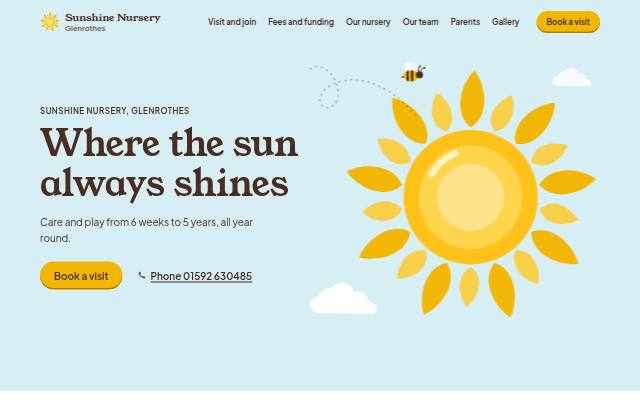
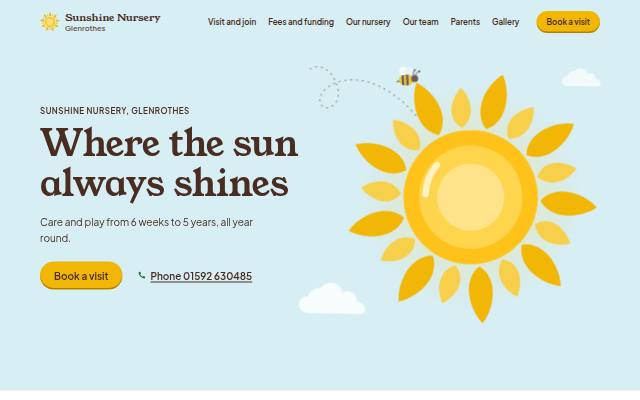
Sunny Side: more motion, tidier menus and footer, photos in What's here
- Hero sun turns and glows, clouds drift in, the bee flies in; the sun on
  the hours arc climbs to the current time. Explore's sun turns and glows
  each time it scrolls into view. All motion stops within 5 seconds.
- Phone menu sheet takes focus itself, so no ring round the logo on open.
- Footer runs to the bottom edge on phones (the call bar tucks away there).
- Desktop menu: one line, gold underline for the current page, from 70em.
- What's here: the nursery's own photos where they show that thing,
  otherwise the drawing in the same frame (owner's decision, recorded in
  nursery-websites.md §5.2 rule 6).

Changed region(s): [[0.5, 0.15, 0.9375, 0.81], [0.8438, 0.18, 0.9375, 0.21], [0.4688, 0.72, 0.5, 0.78]]

diff --git a/pipeline/templates/nursery/sunny-side/styles.css b/pipeline/templates/nursery/sunny-side/styles.css
@@ -167,14 +167,20 @@ a:hover { color: var(--leaf-strong); text-decoration-thickness: .14em; }
 .menu-toggle:hover { background: var(--paper); color: var(--soil); }
 .menu-toggle__dots { display: inline-grid; grid-template-columns: repeat(2, 5px); gap: 3px; }
 .menu-toggle__dots i { width: 5px; height: 5px; border-radius: 50%; background: var(--gold-strong); }
-@media (min-width: 64em) {
+/* The full menu row needs about 1080px with the 64px gutters, so it starts at 70em; below that, Menu opens the sheet. */
+@media (min-width: 70em) {
   .site-header__bar { min-height: 5.5rem; }
   .menu-toggle { display: none; }
   .site-nav { display: flex; align-items: center; gap: 1.5rem; }
   .site-nav ul { display: flex; gap: .25rem; margin: 0; padding: 0; list-style: none; }
-  .site-nav a:not(.btn) { display: inline-flex; align-items: center; min-height: var(--tap); padding: .25rem .625rem; color: var(--soil); font-size: 1rem; font-weight: 600; text-decoration: none; border-radius: 999px; }
-  .site-nav a:not(.btn):hover { background: var(--paper); }
-  .site-nav a[aria-current="page"] { background: var(--paper); box-shadow: inset 0 -3px 0 var(--gold); }
+  /* Links stay on one line. Hover and the current page are a gold underline, as in the phone menu sheet. */
+  .site-nav a { white-space: nowrap; }
+  .site-nav a:not(.btn) {
+    display: inline-flex; align-items: center; min-height: var(--tap); padding: .25rem .625rem; color: var(--soil); font-size: 1rem; font-weight: 600;
+    text-decoration: underline 3px transparent; text-underline-offset: .45em; border-radius: .5rem; transition: text-decoration-color .15s;
+  }
+  .site-nav a:not(.btn):hover { color: var(--soil); text-decoration-color: var(--line-strong); }
+  .site-nav a[aria-current="page"], .site-nav a[aria-current="page"]:hover { text-decoration-color: var(--gold-strong); }
 }
 
 /* The phone and tablet menu: a full-height sheet (a modal <dialog>) */
@@ -182,6 +188,8 @@ a:hover { color: var(--leaf-strong); text-decoration-thickness: .14em; }
   width: 100%; max-width: 100%; height: 100%; max-height: 100%; margin: 0; padding: 0; border: 0;
   background: var(--sky); color: var(--soil);
 }
+.menu-sheet:focus { outline: none; }
+.brand:focus-visible { border-radius: .75rem; }
 .menu-sheet::backdrop { background: rgba(74, 44, 32, .35); }
 .menu-sheet__inner { display: flex; flex-direction: column; min-height: 100%; padding: 0 var(--gutter) calc(1.5rem + env(safe-area-inset-bottom)); }
 .menu-sheet__top { display: flex; align-items: center; justify-content: space-between; min-height: 4.5rem; }
@@ -198,10 +206,12 @@ a:hover { color: var(--leaf-strong); text-decoration-thickness: .14em; }
 .menu-sheet__dot { width: 1rem; height: 1rem; flex: none; border-radius: var(--corner) var(--corner) var(--corner) 2px; background: var(--deep-visit); }
 .menu-sheet__foot { margin-top: auto; display: grid; gap: 1rem; }
 
-/* The call bar: phones only. It never covers content: the page is padded by its height. */
+/* The call bar: phones only. It never covers content. The script tucks it away while the footer is in view
+   (body.callbar-tucks), so the footer runs to the bottom edge; without the script the footer is padded by the bar's height. */
 .callbar { display: none; }
 @media (max-width: 47.99em) {
-  body.has-callbar { padding-bottom: calc(var(--callbar-height) + env(safe-area-inset-bottom)); }
+  body.has-callbar .site-footer { padding-bottom: calc(2.5rem + env(safe-area-inset-bottom)); }
+  body.has-callbar:not(.callbar-tucks) .site-footer { padding-bottom: calc(2.5rem + var(--callbar-height) + env(safe-area-inset-bottom)); }
   .callbar {
     position: fixed; z-index: 30; left: 0; right: 0; bottom: 0; display: flex; align-items: center; gap: 1rem;
     min-height: var(--callbar-height); padding: .5rem var(--gutter) calc(.5rem + env(safe-area-inset-bottom));
@@ -240,7 +250,9 @@ a:hover { color: var(--leaf-strong); text-decoration-thickness: .14em; }
 .hero { position: relative; overflow: hidden; background: var(--sky); padding-block: 1rem var(--space-section); min-height: calc(min(100svh, 52.75rem) * .7 - 4.5rem); }
 .hero__inner { position: relative; display: grid; }
 .hero__art { position: relative; justify-self: end; width: min(72vw, 20rem); aspect-ratio: 1; margin: -.75rem -3rem 0 0; }
-.hero__art .emblem { width: 100%; height: 100%; }
+.hero__art .emblem { position: relative; width: 100%; height: 100%; }
+/* A soft glow behind the sun; it breathes twice on load (see section 13) */
+.hero__art::before { content: ""; position: absolute; inset: 4%; border-radius: 50%; background: radial-gradient(closest-side, rgb(255 227 138 / .75), rgb(255 213 77 / .3) 62%, transparent); opacity: .35; }
 .hero__cloud { position: absolute; width: 7.5rem; height: auto; opacity: .95; }
 .hero__cloud--a { left: -4rem; bottom: 1.5rem; width: 8.5rem; }
 .hero__cloud--b { right: 1rem; top: 0; width: 5rem; opacity: .8; }
@@ -490,9 +502,12 @@ a:hover { color: var(--leaf-strong); text-decoration-thickness: .14em; }
 @media (min-width: 64em) { .rooms { grid-template-columns: repeat(3, 1fr); } }
 
 /* "What's here": the nursery's real amenities, a drawing and up to 4 words each */
-.whats-here { display: grid; gap: 1rem 2rem; margin-top: 2rem; padding: 0; list-style: none; }
-.whats-here li { display: flex; align-items: center; gap: 1rem; font-weight: 600; }
-.whats-here svg { width: 3.5rem; height: 3.5rem; flex: none; }
+/* What's here: one card per thing, the nursery's own photo where it shows that thing, else its drawing in the same frame */
+.whats-here { display: grid; gap: var(--gap-cards); margin-top: 2rem; padding: 0; list-style: none; }
+.whats-here img, .whats-here__art { width: 100%; aspect-ratio: 4 / 3; object-fit: cover; border-radius: var(--radius-photo); background: var(--sky); }
+.whats-here__art { display: grid; place-items: center; background: var(--paper); box-shadow: inset 0 0 0 1px var(--line); }
+.whats-here__art svg { width: 45%; height: auto; }
+.whats-here figcaption { margin-top: .75rem; font-weight: 600; }
 @media (min-width: 37.5em) { .whats-here { grid-template-columns: 1fr 1fr; } }
 @media (min-width: 64em) { .whats-here { grid-template-columns: repeat(3, 1fr); } }
 
@@ -640,16 +655,30 @@ a:hover { color: var(--leaf-strong); text-decoration-thickness: .14em; }
 @media (prefers-reduced-motion: no-preference) {
   html { scroll-behavior: smooth; }
   .callbar { transition: transform .25s ease, visibility .25s; }
-  .hero__bee, .visit__bee { animation: bob 2.4s ease-in-out 3; }
-  .hero__art .emblem { animation: rise .9s cubic-bezier(.2, .8, .2, 1) both; }
+  .visit__bee { animation: bob 2.4s ease-in-out 3; }
+  /* The hero sun: rises, turns a little as it settles and glows twice. All of it is over within 5 seconds. */
+  .hero__art .emblem { animation: rise .9s cubic-bezier(.2, .8, .2, 1) both, turn 4.6s cubic-bezier(.3, .6, .2, 1) both; }
+  .hero__art::before { animation: glow 2.2s ease-in-out .5s 2 both; }
+  .hero__cloud--a { animation: drift-a 4.8s ease-in-out both; }
+  .hero__cloud--b { animation: drift-b 4.8s ease-in-out both; }
+  .hero__bee { animation: fly-in 1.1s cubic-bezier(.2, .8, .2, 1) .6s both, bob 2.4s ease-in-out 1.7s 1; }
   .sun-arc__path { stroke-dasharray: 1; animation: draw 1.6s ease-out both; }
   @supports (animation-timeline: view()) { .sun-arc__path { animation-timeline: view(); animation-range: entry 10% cover 40%; } }
+  /* Explore: each time the sun comes into view (the script adds .is-playing) it turns and glows twice, then rests. Under 5 seconds. */
+  .is-playing[data-sun-play] { animation: spin 4.4s cubic-bezier(.3, .6, .2, 1) both, breathe 2.2s ease-in-out 2 both; }
   .flower .petal { animation: unfold .5s cubic-bezier(.2, .8, .2, 1) both; }
   .flower .petal:nth-child(2) { animation-delay: 40ms; } .flower .petal:nth-child(3) { animation-delay: 80ms; }
   .flower .petal:nth-child(4) { animation-delay: 120ms; } .flower .petal:nth-child(5) { animation-delay: 160ms; }
   .flower .petal:nth-child(6) { animation-delay: 200ms; }
   @keyframes bob { 0%, 100% { transform: translateY(0); } 50% { transform: translateY(-3px); } }
   @keyframes rise { from { transform: translateY(12px) rotate(-12deg) scale(.94); opacity: 0; } to { transform: none; opacity: 1; } }
+  @keyframes turn { from { rotate: -50deg; } to { rotate: 0deg; } }
+  @keyframes glow { 0%, 100% { opacity: .35; scale: .92; } 50% { opacity: 1; scale: 1.08; } }
+  @keyframes drift-a { from { translate: -1.5rem 0; opacity: 0; } 25% { opacity: .95; } to { translate: 0 0; } }
+  @keyframes drift-b { from { translate: 1.25rem 0; opacity: 0; } 25% { opacity: .8; } to { translate: 0 0; } }
+  @keyframes fly-in { from { translate: -2.5rem 1.5rem; rotate: -10deg; opacity: 0; } to { translate: 0 0; rotate: 0deg; opacity: 1; } }
+  @keyframes spin { from { rotate: 0deg; } to { rotate: 120deg; } }
+  @keyframes breathe { 0%, 100% { scale: 1; filter: drop-shadow(0 0 0 rgb(255 213 77 / 0)); } 50% { scale: 1.04; filter: drop-shadow(0 0 1.25rem rgb(255 213 77 / .7)); } }
   @keyframes draw { from { stroke-dashoffset: 1; } to { stroke-dashoffset: 0; } }
   @keyframes unfold { from { transform: scale(.9); opacity: 0; } to { transform: none; opacity: 1; } }
 }

diff --git a/pipeline/templates/nursery/sunny-side/sunnyside.js b/pipeline/templates/nursery/sunny-side/sunnyside.js
@@ -4,7 +4,8 @@
    3. Dated notices (data-show-from / data-show-until)
    4. Call bar: tucked away while the hero or the Book a visit band is in view
    5. Living photo: autoplays only on wider screens without reduced motion; visible pause button
-   6. Gallery filters and lightbox (Previous / Next, arrow keys, swipe) */
+   6. Gallery filters and lightbox (Previous / Next, arrow keys, swipe)
+   7. The sun in Explore: turns and glows each time it comes into view (not with reduced motion) */
 (function () {
   'use strict';
   var doc = document;
@@ -18,9 +19,12 @@
     toggle.setAttribute('aria-haspopup', 'dialog');
     toggle.setAttribute('aria-expanded', 'false');
     toggle.setAttribute('aria-controls', 'menu-sheet');
+    sheet.setAttribute('tabindex', '-1');
     toggle.addEventListener('click', function (e) {
       e.preventDefault();
       sheet.showModal();
+      /* Focus the sheet itself, not its first link: otherwise phones draw a focus ring round the logo on every open. Tab still starts at the logo. */
+      sheet.focus();
       toggle.setAttribute('aria-expanded', 'true');
     });
     toggle.addEventListener('keydown', function (e) { if (e.key === ' ') { e.preventDefault(); toggle.click(); } });
@@ -91,8 +95,27 @@
       var sun = arc.querySelector('.sun-arc__sun'); if (!sun) return;
       var cx = +arc.getAttribute('data-cx') || 160, cy = +arc.getAttribute('data-cy') || 100, rx = +arc.getAttribute('data-rx') || 148, ry = +arc.getAttribute('data-ry') || 84;
       if (typeof st.frac === 'number') {
-        var ang = Math.PI * (1 - st.frac);
-        sun.setAttribute('transform', 'translate(' + (cx + rx * Math.cos(ang)).toFixed(1) + ' ' + (cy - ry * Math.sin(ang)).toFixed(1) + ')');
+        var place = function (f, turn) {
+          var ang = Math.PI * (1 - f);
+          sun.setAttribute('transform', 'translate(' + (cx + rx * Math.cos(ang)).toFixed(1) + ' ' + (cy - ry * Math.sin(ang)).toFixed(1) + ') rotate(' + (turn || 0).toFixed(1) + ')');
+        };
+        place(st.frac);
+        /* With motion allowed, the sun climbs from opening time to now (and turns as it goes) the first time the arc is seen */
+        if (!reduceMotion && 'IntersectionObserver' in window && window.requestAnimationFrame) {
+          place(0);
+          var seen = new IntersectionObserver(function (entries) {
+            if (!entries[0].isIntersecting) return;
+            seen.disconnect();
+            var start = null, dur = 1600;
+            requestAnimationFrame(function step(t) {
+              if (start === null) start = t;
+              var k = Math.min(1, (t - start) / dur), e = 1 - Math.pow(1 - k, 3);
+              place(st.frac * e, 120 * e);
+              if (k < 1) requestAnimationFrame(step);
+            });
+          }, { threshold: 0.5 });
+          seen.observe(arc);
+        }
       } else {
         sun.setAttribute('transform', 'translate(' + cx + ' ' + (cy + 40) + ')');
         sun.style.opacity = '0';
@@ -124,6 +147,7 @@
       bar.classList.toggle('is-tucked', showing.size > 0);
     }, { threshold: 0 });
     watched.forEach(function (w) { io.observe(w); });
+    doc.body.classList.add('callbar-tucks');
   }
 
   /* 5. Living photo ---------------------------------------------------- */
@@ -206,5 +230,18 @@
     box.addEventListener('close', function () { if (opener) opener.focus(); });
   } else {
     doc.querySelectorAll('[data-lightbox]').forEach(function (b) { b.addEventListener('click', function () { location.href = b.getAttribute('data-lightbox'); }); });
+  }
+
+  /* 7. Sun in Explore ------------------------------------------------- */
+  /* Plays each time it scrolls into view: the class comes off when it leaves, so the animation starts afresh. */
+  var suns = doc.querySelectorAll('[data-sun-play]');
+  if (suns.length && !reduceMotion && 'IntersectionObserver' in window) {
+    var sunIo = new IntersectionObserver(function (entries) {
+      entries.forEach(function (en) {
+        if (en.intersectionRatio >= 0.6) en.target.classList.add('is-playing');
+        else if (!en.isIntersecting) en.target.classList.remove('is-playing');
+      });
+    }, { threshold: [0, 0.6] });
+    suns.forEach(function (s) { sunIo.observe(s); });
   }
 })();

diff --git a/pipeline/templates/nursery/sunny-side/example/join-us.html b/pipeline/templates/nursery/sunny-side/example/join-us.html
@@ -269,12 +269,12 @@
     <h2 id="whats-here-title">What’s here</h2>
     <p>Everything is in one purpose-built, single-storey building.</p>
     <ul class="whats-here">
-      <li><svg viewBox="0 0 120 120" aria-hidden="true" focusable="false"><use href="#d-nursery"/></svg>Four playrooms</li>
-      <li><svg viewBox="0 0 120 120" aria-hidden="true" focusable="false"><use href="#w-garden"/></svg>A secure garden</li>
-      <li><svg viewBox="0 0 120 120" aria-hidden="true" focusable="false"><use href="#w-shed"/></svg>An outdoor learning shed</li>
-      <li><svg viewBox="0 0 120 120" aria-hidden="true" focusable="false"><use href="#w-wellies"/></svg>Wetsuits for wet days</li>
-      <li><svg viewBox="0 0 120 120" aria-hidden="true" focusable="false"><use href="#w-bus"/></svg>Visits from the library bus</li>
-      <li><svg viewBox="0 0 120 120" aria-hidden="true" focusable="false"><use href="#d-visit"/></svg>All on one level</li>
+      <li><figure><picture><source type="image/webp" srcset="img/room-construction-sm.webp 400w, img/room-construction.webp 640w" sizes="(min-width: 64em) 22rem, (min-width: 37.5em) 45vw, 100vw"><img src="img/room-construction.jpg" alt="One of our playrooms: a table set up with a tub of chunky bricks and bright blue chairs." width="640" height="480" loading="lazy" decoding="async"></picture><figcaption>Four playrooms</figcaption></figure></li>
+      <li><figure><picture><source type="image/webp" srcset="img/garden-sm.webp 400w, img/garden.webp 640w" sizes="(min-width: 64em) 22rem, (min-width: 37.5em) 45vw, 100vw"><img src="img/garden.jpg" alt="Our garden: a wooden learning shed, a climbing dome, tree-stump seats and toy diggers on the grass." width="640" height="480" loading="lazy" decoding="async"></picture><figcaption>A secure garden, with an outdoor learning shed</figcaption></figure></li>
+      <li><figure><picture><source type="image/webp" srcset="img/building-front-sm.webp 400w, img/building-front.webp 640w" sizes="(min-width: 64em) 22rem, (min-width: 37.5em) 45vw, 100vw"><img src="img/building-front.jpg" alt="The front of the nursery: one storey, with big windows and the front door at ground level." width="640" height="480" loading="lazy" decoding="async"></picture><figcaption>All on one level</figcaption></figure></li>
+      <!-- No photo of these yet: the drawing sits in the same frame. Swap in the nursery's own photo when there is one. -->
+      <li><figure><div class="whats-here__art"><svg viewBox="0 0 120 120" aria-hidden="true" focusable="false"><use href="#w-wellies"/></svg></div><figcaption>Wetsuits for wet days</figcaption></figure></li>
+      <li><figure><div class="whats-here__art"><svg viewBox="0 0 120 120" aria-hidden="true" focusable="false"><use href="#w-bus"/></svg></div><figcaption>Visits from the library bus</figcaption></figure></li>
     </ul>
   </div></div>
 </section>

diff --git a/pipeline/templates/nursery/sunny-side/example/index.html b/pipeline/templates/nursery/sunny-side/example/index.html
@@ -269,7 +269,7 @@
 <section class="section doors" aria-labelledby="doors-title">
   <div class="wrap">
     <div class="doors__head">
-      <svg class="doors__mark" aria-hidden="true" focusable="false"><use href="#emblem"/></svg>
+      <svg class="doors__mark" data-sun-play aria-hidden="true" focusable="false"><use href="#emblem"/></svg>
       <h2 id="doors-title">Explore Sunshine</h2>
     </div>
     <div class="flower">
@@ -282,7 +282,7 @@
         <li class="petal petal--gallery"><a href="gallery.html"><svg class="petal__mark" viewBox="0 0 72 72" aria-hidden="true" focusable="false"><path class="mark-ground" d="M28 0H64a8 8 0 0 1 8 8V44a28 28 0 0 1-28 28H8a8 8 0 0 1-8-8V28A28 28 0 0 1 28 0Z"/><use href="#d-gallery" x="10" y="10" width="52" height="52"/></svg><span class="petal__label">Gallery</span><span class="petal__line">Rooms and garden in photos</span><svg class="petal__arrow" aria-hidden="true" focusable="false"><use href="#i-arrow"/></svg></a></li>
       </ul>
       <div class="flower__centre">
-        <svg aria-hidden="true" focusable="false"><use href="#emblem"/></svg>
+        <svg data-sun-play aria-hidden="true" focusable="false"><use href="#emblem"/></svg>
         <a class="flower__book" href="join-us.html#book">Book a visit</a>
       </div>
     </div>

diff --git a/pipeline/templates/nursery/sunny-side/BRIEF.md b/pipeline/templates/nursery/sunny-side/BRIEF.md
@@ -98,7 +98,7 @@ It must not use any of the existing signature devices (luggage tags, cork boards
 21. One `h1` per page; `h2` per section; `h3` inside. Landmarks: `header`, `nav[aria-label]`, `main#main`, `footer`. The skip link is the first element in `body`.
 22. Focus is a 3px soil ring with a white halo (gold on the footer). Never remove it.
 23. Tap targets 44px. Drawings are `aria-hidden="true"`; every link and button has a text name.
-24. Motion only inside `prefers-reduced-motion: no-preference`; the companion bobs 3 times and stops, so nothing moves for more than 5 seconds without a control.
+24. Motion only inside `prefers-reduced-motion: no-preference`; the hero sun rises, turns and glows twice while the clouds drift in and the bee flies in and bobs once; the little sun climbs the sun arc to the current time when it is first seen; the companion in the visit band bobs 3 times. The sun in Explore (`data-sun-play`) turns and glows each time it scrolls into view, then rests. Every animation stops within 5 seconds, so nothing needs a pause control (WCAG 2.2.2); don't add a continuous loop.
 
 ### Known quirks
 25. **The board preview blocks the fonts** (the sandbox gives the page a null origin and `/templates/` sends no CORS header), so the preview at `localhost:4391/templates/…` shows Georgia and system sans. That affects every template; the real site and `http-server` are fine. Drawings render there because the sprite is inline.
@@ -115,7 +115,7 @@ Measured on a 390 by 844 phone (the example):
 
 | # | Section | Classes | Holds | Screen |
 |---|---|---|---|---|
-| 0 | Header | `.site-header`, `.brand`, `.site-nav` (from 64em), `a.menu-toggle[data-menu-open]`, `dialog#menu-sheet` | Emblem mark, name, town; Menu | 1 |
+| 0 | Header | `.site-header`, `.brand`, `.site-nav` (from 70em), `a.menu-toggle[data-menu-open]`, `dialog#menu-sheet` | Emblem mark, name, town; Menu | 1 |
 | 1 | **Hero** | `section.hero` > `.hero__art` (emblem, 2 clouds, dashed trail, `.hero__bee`) + `.hero__text` | `p.hero__name` "[Name], [Town]"; `h1` (up to 8 words; the nursery's own line if it has one); `p.hero__lead` (one sentence, ages and weeks); `.actions` with `a.btn` Book a visit and `a.call-link` Phone | 1 |
 | 2 | **The essentials** | `section.essentials` > `h2` + `ul.essentials__list` + `p.more` | 5 lines, up to 8 words each: ages; hours as `li.essentials__hours` holding the **sun arc**; funded hours with the council; places; grades (a link to the report). Then "All the details →" | 1 to 2 |
 | 3 | **Intent pair** | `section.section--sky.intent` > optional `figure.living.intent__photo` + `h2` + `ul.intent__list` of 2 `li.intent-card` | Each card: `p.intent-card__q` (up to 8 words) and one `a.go` door | 3 |
@@ -139,7 +139,8 @@ Checked with `viewports.mjs` at 360, 390, 430, 600, 768, 834, 1024, 1280 and 144
 | 37.5em (600px) | Gutters 40px. Doors become petal cards, 2 per row. |
 | 48em (768px) | Body 19px. Intent cards 2 per row. The page band puts its drawing beside the text. "On this page" in 2 columns. The call bar goes. |
 | 56em (896px) | Hero in two columns (text left, big sun right). Essentials sit beside their heading. The intent photo sits beside the heading and cards. Footer in 2 columns. Gallery 3 columns. |
-| 64em (1024px) | Gutters 64px. Full menu row with the Book a visit button; Menu goes. **The flower of doors:** six petals in two arcs either side of a 25rem sun whose centre is the "Book a visit" link. Rooms 3 per row. |
+| 64em (1024px) | Gutters 64px. **The flower of doors:** six petals in two arcs either side of a 25rem sun whose centre is the "Book a visit" link. Rooms 3 per row. |
+| 70em (1120px) | Full menu row with the Book a visit button; Menu goes. Links stay on one line; the current page has a gold underline. |
 | 80em (1280px) | Body 20px. |
 
 The DOM order of the petals runs left, right, left, right, left, right on desktop, so reading and tab order match what people see. On phones and for screen readers the petals are a plain list.
@@ -267,7 +268,7 @@ Every page reuses the head, sprite, header, menu sheet, footer, call bar and sch
 
 | Page | Band (H1, action) | Sections in the example |
 |---|---|---|
-| `join-us.html` (Visit and join, butter) | "Come and see us", Phone button | Book a visit (how, plus questions parents ask) · How enrolment works (`.steps`) · Sessions and places (`.summary`, registered places) · What's here (`.whats-here`) · Find us (address, directions, sign photo). Next: Fees and funding |
+| `join-us.html` (Visit and join, butter) | "Come and see us", Phone button | Book a visit (how, plus questions parents ask) · How enrolment works (`.steps`) · Sessions and places (`.summary`, registered places) · What's here (`.whats-here`: one card per thing, the nursery's own photo when it shows that exact thing, otherwise its drawing in `.whats-here__art`) · Find us (address, directions, sign photo). Next: Fees and funding |
 | `fees-and-funding.html` (green) | "Fees and funding", Book a visit | Funded hours (council partner, 1,140 hours, how to apply) · When funding starts (birthday table, mygov.scot source) · 2 year olds · Our fees (phone for fees; sessions; registration fee) · Help with costs (`.details`: Tax-Free Childcare, Universal Credit, Parent Club). Next: Our nursery |
 | `our-nursery.html` (peach) | "Our rooms and garden" | Rooms by age (`.rooms`, with the nursery's own ratios) · A look round (tour film, transcript) · Outdoors (photo) · How children learn · Food · Our inspection grades (`.grades`, every indicator in `.details`, report and register links). Next: Our team |
 | `our-team.html` (lilac) | "Meet our team" | Our managers (`.people--2`) · Your child's key worker · The whole team (`.details` per group) · Staff in each room · What the letters mean. Next: Parents |

diff --git a/prospects/research/nursery-websites.md b/prospects/research/nursery-websites.md
@@ -314,6 +314,10 @@ All of these must come from the nursery or the Care Inspectorate record.
    - Reuse rooms, garden, building, food, artwork and staff images where the staff member's identity is already public on that site, and record the source in `img/CREDITS.txt`.
    - After handover, the nursery may add child photos under its own consent process. The templates should still look complete without them.
 5. **Never use** stock or AI-generated children or staff, clip-art children, or illustrations of "happy toddlers". Parents are judging the real place [NNG-P].
+6. **Use the nursery's own photo when it has one; otherwise the template's drawing.** (Owner's decision, October 2026.)
+   - Each thing a page lists (a playroom, the garden, wetsuits, a library bus) gets a photo only if the nursery has one that shows that exact thing.
+   - If it doesn't, keep the template's drawing in the same frame, so the layout doesn't depend on photos. Sunny Side's "What's here" is the worked example.
+   - AI pictures of objects with no people are not banned, but never pass them off as the nursery's own: label them "Illustration", or prefer the drawing.
 
 ---
 
